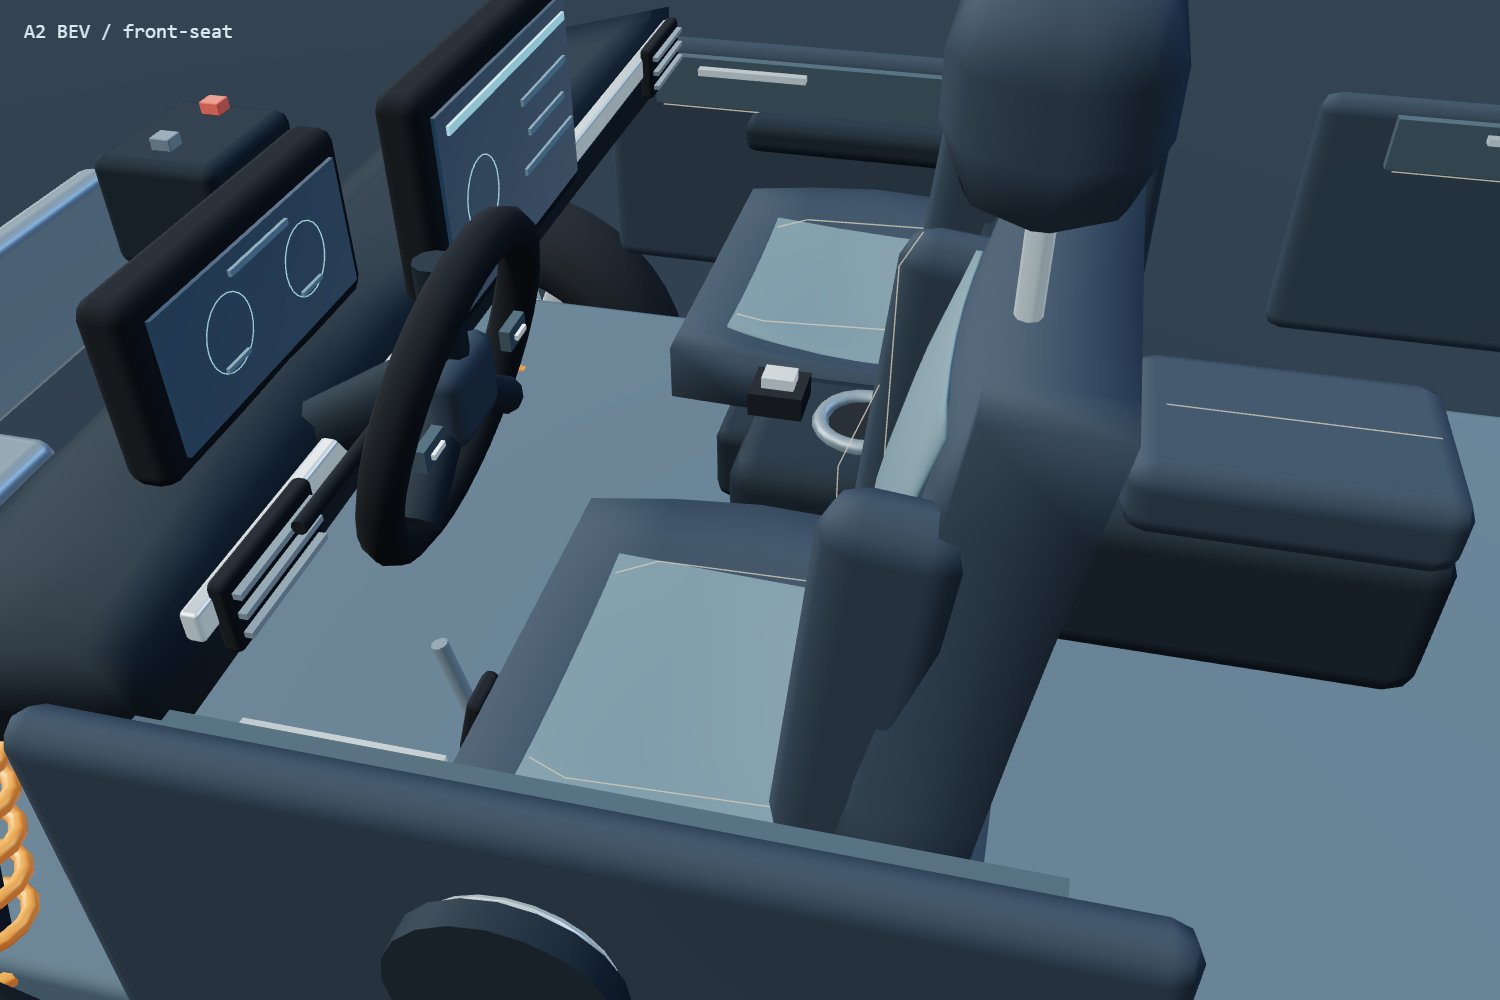
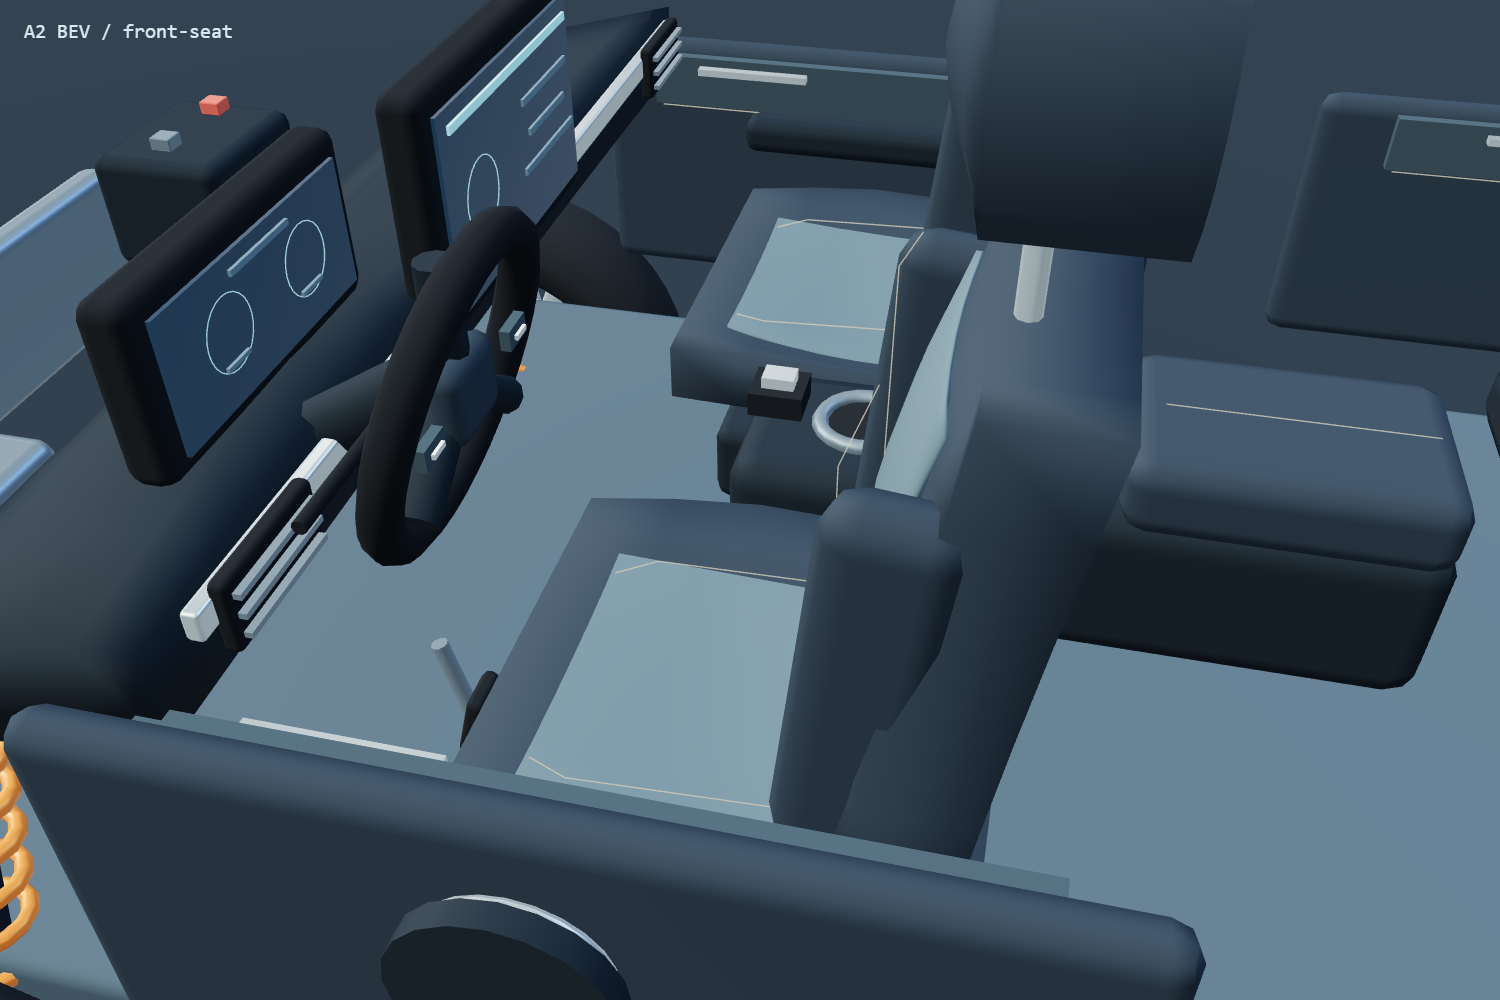
feat(a2): sculpt shared rear bench and headrests

Changed region(s): [[0.644, 0.124, 0.828, 0.279], [0.7667, 0.0, 0.7973, 0.093], [0.9813, 0.403, 1.0, 0.465]]

diff --git a/src/team-a/viewer/vehicle-model.ts b/src/team-a/viewer/vehicle-model.ts
@@ -189,6 +189,17 @@ export function createVehicleModel(kind: VehicleKind): VehicleModel {
     return mesh(parent, skinGeometry(vertices, nx, ny, [0, 0, inlay ? -0.014 : -0.115]), material);
   }
 
+  function headrestSkin(parent: THREE.Object3D, x: number, z: number, width: number) {
+    const vertices: number[] = [], nx = 8, ny = 6;
+    for (let j = 0; j <= ny; j++) for (let i = 0; i <= nx; i++) {
+      const t = j / ny, u = i / nx * 2 - 1;
+      const endTaper = 1 - 0.26 * Math.pow(Math.abs(t * 2 - 1), 2);
+      vertices.push(x + u * width * endTaper / 2, 1.665 + 0.225 * t,
+        z - 0.205 + 0.047 * (1 - u * u) * Math.sin(Math.PI * t));
+    }
+    return mesh(parent, skinGeometry(vertices, nx, ny, [0, 0, -0.155]), fabric);
+  }
+
   function roofPillar(parent: THREE.Object3D, s: number, bottom: V3, top: V3, widthAtBase: number, widthAtTop: number) {
     const vertices: number[] = [], nx = 1, ny = 6;
     for (let j = 0; j <= ny; j++) {
@@ -277,18 +288,22 @@ export function createVehicleModel(kind: VehicleKind): VehicleModel {
     for (const xx of [-0.075, 0, 0.075]) { const g = new THREE.TorusGeometry(0.394 - Math.abs(xx) * 0.2, 0.004, 4, 24); g.rotateY(Math.PI / 2); mesh(wheel, g, dark, [xx, 0, 0]); }
   }
 
+  const rearBench = part('rear-bench-frame', '后排共用坐垫基座', 'cabin', [0, 0.45, 0]);
+  box(rearBench, [1.61, 0.15, 0.53], [0, 0.77, -0.79], dark, 0.055);
   for (const [index, [x, z, width]] of ([[0.48, 0.55, 0.62], [-0.48, 0.55, 0.62], [0.5, -0.79, 0.57], [0, -0.79, 0.42], [-0.5, -0.79, 0.57]] as [number, number, number][]).entries()) {
     const seat = part(`seat-${index + 1}`, `${index < 2 ? '前排' : '后排'}座椅 ${index + 1}（含头枕）`, 'cabin', [0, 0.45, 0]);
-    box(seat, [width - 0.13, 0.14, 0.46], [x, 0.76, z], dark);
+    if (index < 2) box(seat, [width - 0.13, 0.14, 0.46], [x, 0.76, z], dark);
     cushionSkin(seat, x, z, width, 0.57, fabric);
     cushionSkin(seat, x, z, width, 0.57, insert, true);
     backrestSkin(seat, x, z, width, fabric);
     backrestSkin(seat, x, z, width, insert, true);
-    for (const dx of [-width * 0.37, width * 0.37]) {
+    const bolsterOffsets = index < 2 ? [-width * 0.37, width * 0.37] : index === 2 ? [width * 0.37] : index === 4 ? [-width * 0.37] : [];
+    for (const dx of bolsterOffsets) {
       const bolster = box(seat, [0.075, 0.43, 0.13], [x + dx, 1.27, z - 0.155], fabric, 0.037); bolster.rotation.x = -0.1;
     }
     for (const dx of [-0.085, 0.085]) cylinder(seat, 0.012, 0.14, [x + dx, 1.63, z - 0.25], trim, 'y', 8);
-    box(seat, [Math.min(width * 0.64, 0.35), 0.21, 0.17], [x, 1.77, z - 0.25], fabric, 0.078);
+    const headrest = headrestSkin(seat, x, z, Math.min(width * 0.64, 0.35));
+    headrest.name = `headrest-${index + 1}`;
     box(seat, [0.045, 0.1, 0.05], [x + width / 2 - 0.035, 1.01, z - 0.1], red, 0.01);
     for (const direction of [-1, 1]) {
       seam(seat, [[x + direction * width * 0.28, 1.03, z - 0.2], [x + direction * width * 0.29, 1.014, z + 0.16], [x + direction * width * 0.25, 1.006, z + 0.21]]);

diff --git a/docs/evidence/A2/A2-FULL-014/capture-shape.js b/docs/evidence/A2/A2-FULL-014/capture-shape.js
@@ -11,19 +11,21 @@ async page => {
     ['cabin', [3.7, 5, 4.4], [0, 1, 0], 'hidden'],
     ['front-seat', [1.55, 2.15, 0.3], [0.48, 1.28, 0.55], 'hidden'],
     ['rear-seat', [1.3, 2.0, -1.5], [0, 1.25, -0.8], 'hidden'],
+    ['rear-bench', [0, 2.25, 1.4], [0, 1.25, -0.79], 'hidden'],
     ['door-close', [2.3, 1.55, 0.2], [0.9, 1.05, 0.3], 'solid'],
   ];
   const records = [];
   for (const kind of ['ice', 'bev', 'hev', 'erev']) for (const [view, camera, target, body] of views) {
-    if (['front-seat', 'rear-seat', 'door-close'].includes(view) && kind !== 'bev') continue;
+    if (['front-seat', 'rear-seat', 'rear-bench', 'door-close'].includes(view) && kind !== 'bev') continue;
     const state = await page.evaluate(({ kind, view, camera, target, body }) => {
       qa.show(kind, camera, target, view); qa.viewer.setBody(body);
+      if (view === 'rear-bench') for (const id of ['seat-1', 'seat-2']) qa.scene.getObjectByName(id).visible = false;
       qa.controls.target.set(...target); qa.camera.position.set(...camera); qa.controls.update(); qa.draw(); qa.clean();
       const model = qa.scene.getObjectByName(`teaching-suv-${kind}`);
       let triangles = 0, meshes = 0;
       model.traverse(item => { if (item.isMesh) { meshes++; triangles += (item.geometry.index?.count ?? item.geometry.getAttribute('position').count) / 3; } });
       const gl = qa.renderer.getContext(), info = gl.getExtension('WEBGL_debug_renderer_info');
-      return { kind, view, body, camera: qa.camera.position.toArray(), target: qa.controls.target.toArray(), triangles, meshes,
+      return { kind, view, body, frontSeatsHiddenForInspection: view === 'rear-bench', camera: qa.camera.position.toArray(), target: qa.controls.target.toArray(), triangles, meshes,
         gpu: gl.getParameter(info?.UNMASKED_RENDERER_WEBGL ?? gl.RENDERER), contextLost: gl.isContextLost() };
     }, { kind, view, camera, target, body });
     if (state.contextLost) throw Error(`${kind} ${view}: WebGL context lost`);

diff --git a/tests/a2-vehicle-model.test.ts b/tests/a2-vehicle-model.test.ts
@@ -2,7 +2,7 @@ import assert from 'node:assert/strict';
 import test from 'node:test';
 import * as THREE from 'three';
 import { createVehicleModel, type VehicleKind } from '../src/team-a/viewer/vehicle-model';
-import { SPEAKER_POSITIONS } from '../src/shared/lab-contracts';
+import { MIC_POSITIONS, SPEAKER_POSITIONS } from '../src/shared/lab-contracts';
 
 test('four drivetrains preserve their physical differences and five-seat cabin', () => {
   for (const kind of ['ice', 'bev', 'hev', 'erev'] as VehicleKind[]) {
@@ -27,6 +27,14 @@ test('four drivetrains preserve their physical differences and five-seat cabin',
       const speaker = model.group.getObjectByName(`speaker-${corner}`);
       assert.ok(speaker, `${kind} ${corner} speaker exists`);
       assert.deepEqual(speaker.getWorldPosition(new THREE.Vector3()).toArray(), SPEAKER_POSITIONS[index]);
+    });
+    [1, 2, 3, 5].forEach((seatIndex, index) => {
+      const headrest = model.group.getObjectByName(`headrest-${seatIndex}`);
+      assert.ok(headrest, `${kind} seat ${seatIndex} has a headrest`);
+      assert.equal(headrest.parent?.name, `seat-${seatIndex}`);
+      const mic = new THREE.Vector3(...MIC_POSITIONS[index]), bounds = new THREE.Box3().setFromObject(headrest);
+      assert.ok(mic.distanceTo(bounds.clampPoint(mic, new THREE.Vector3())) < 0.1,
+        `${kind} MIC ${index + 1} remains at its designated headrest`);
     });
     for (const p of model.parts) {
       assert.equal(p.object.parent, model.group, 'exploded parts do not inherit another part offset');

diff --git a/docs/evidence/A2/A2-FULL-014/README.md b/docs/evidence/A2/A2-FULL-014/README.md
@@ -1,18 +1,18 @@
 # A2-FULL-014 四车型共用车侧、车顶与座椅形态
 
-状态：A2 局部实现及本机验证完成，待 PR 审查；A2-F2 最终视觉质量与 A 组最终交付仍未通过。基线是 A2-FULL-013 已提交 `5ab99a0`；本批经验证运行源码为 `8710954fa4295af3c4989c94fd29c24c150c6f11`。此后文档固定提交不改变运行源码，不用未来 PR HEAD 代替本批版本。
+状态：A2 局部实现及本机验证完成，待 PR 审查；A2-F2 最终视觉质量与 A 组最终交付仍未通过。基线是 A2-FULL-013 已提交 `5ab99a0`。第一批经验证运行源码为 `8710954fa4295af3c4989c94fd29c24c150c6f11`；座椅正面补强后的最终经验证源码 SHA 待本次提交后固定，不用未来 PR HEAD 代替本批版本。
 
 ## 变化与肉眼核对
 
 - 将车顶两侧悬空的圆管替换为贴合车顶与侧窗上沿的闭合肩部，车顶轮廓在四车侧面与斜顶视角中连贯。门外板增加上部肩线与下部收分，轮拱后方增加闭合深色内衬，门槛条减薄。模型仍为原创教学 SUV，不声明量产车型比例或零件精度。
-- 五个座椅保持前 2 后 3 与原部件 ID、安装位置；坐垫前缘/边缘收分，靠背及头枕形态稍圆润，嵌片色差收敛。未移动四 MIC、四门扬声器、四轮或参考安装点。
-- 轮胎装饰槽环分段从 40 减至 24，留出车壳几何预算。四车三角数由 ICE 46,460、BEV 46,448、HEV 48,704、EREV 49,376 变为 ICE 45,364、BEV 45,352、HEV 47,608、EREV 48,280；数字仅作资源预算，不作视觉达标证明。
-- 固定机位肉眼检查：侧面车顶不再有明显脱开的长条，轮拱内部颜色更收敛，座椅嵌片不再过亮；车侧仍较平，立柱、轮拱、后部和座椅仍偏教学简化。游戏参照精细度明确未通过。
+- 五个座椅保持前 2 后 3 与原部件 ID、安装位置；坐垫前缘/边缘收分，靠背和头枕改为闭合曲面，嵌片色差收敛。后排三座共用坐垫基座，移除相邻座位间重复的高侧翼，近景可直接辨认连续后排。未移动四 MIC、四门扬声器、四轮或参考安装点；新增模型检查四个 MIC 均在指定头枕 0.1 m 内。
+- 轮胎装饰槽环分段从 40 减至 24，留出车壳几何预算。四车三角数由 ICE 46,460、BEV 46,448、HEV 48,704、EREV 49,376 变为最终 ICE 45,416、BEV 45,404、HEV 47,660、EREV 48,332；数字仅作资源预算，不作视觉达标证明。
+- 固定机位肉眼检查：侧面车顶不再有明显脱开的长条，轮拱内部颜色更收敛，后排由独立方块底座改为共用基座；车侧仍较平，立柱、轮拱、后部和座椅仍偏教学简化。游戏参照精细度明确未通过。
 
 ## 复现与结果
 
-- `capture-shape.js` 在固定机位拍摄四车侧面、车顶、隐藏车壳座舱，另拍 BEV 前后排座椅和车门近景；共 15 对 `before-*` / `after-*` 原图。基线图来自修改前同一 Vite 运行页，后图来自修改后同一页。`after.json` 记录四车视角、三角数、GPU 和 WebGL 上下文；全部 `contextLost=false`。本机显卡为 NVIDIA RTX 4070 Laptop GPU，并非目标核显。
-- `check-full-app.js` 在真实 `pnpm dev` 页面记录同一实验 `82ca91cc` 的实体、透明、隐藏、展开及 X 剖面五模式。`full-app.json` 中每一模式硬件标记 16 个、实验身份不变、无页面错误和 WebGL 上下文丢失。完整页截图为 `full-app-*.png`。
+- `capture-shape.js` 在固定机位拍摄四车侧面、车顶、隐藏车壳座舱，另拍 BEV 前后排座椅和车门近景；共 15 对原始 `before-*` / 最终 `after-*` 原图。新增第 16 张 `after-bev-rear-bench.png` 从座舱前方正视后排，临时隐藏前两张座椅以免遮挡，`mid-bev-rear-bench.png` 为第一批源码 `26d0478` 同机位基线；这两张不代表完整页面默认可见状态。`after.json` 记录四车视角、三角数、GPU 和 WebGL 上下文；全部 `contextLost=false`。本机显卡为 NVIDIA RTX 4070 Laptop GPU，并非目标核显。
+- `check-full-app.js` 在真实 `pnpm dev` 页面记录同一实验 `63859207` 的实体、透明、隐藏、展开及 X 剖面五模式。`full-app.json` 中每一模式硬件标记 16 个、实验身份不变、无页面错误和 WebGL 上下文丢失。完整页截图为 `full-app-*.png`。
 - 执行 `pnpm exec tsx --test tests/a2-vehicle-model.test.ts`：3/3；`pnpm check`：类型、边界、66/66 自动测试及生产构建通过。构建保留超过 500 kB 的非阻断提示。
 
 ## 仍需完成

diff --git a/开发记录.md b/开发记录.md
@@ -11,7 +11,7 @@
 | 责任 | 本轮已有实现 | 实际验证 | 下一步 |
 | --- | --- | --- | --- |
 | A1 | 保留原实验界面与16秒回放；新增持续仿真/试听、背压、有界历史、暂停恢复/后台/销毁闭环 | 生产版实时20项、Web Audio11项、生命周期31+4项；新增播放器8项与Worker管理3项自动测试 | 长稳结果审计、重负载补缓冲质量、全流程与新版交付 |
-| A2 | #7四类结构/真实截面；#8–#10视觉/结构检视；#11结构讲解；#12真实采样色片；#13近景细节；#14路径聚焦；#15动态剖面录像；#16移动平面采样；#17座舱近景；#18前后车身曲面；#19车侧/车顶/座椅局部形态 | #19四车15对固定机位、BEV整页五模式、`pnpm check` 66/66；暂停态自动重查/跨端联调及最终视觉未通过 | A1暂停态重查与B负载核对、参照精细度、目标核显和全应用讲解 |
+| A2 | #7四类结构/真实截面；#8–#10视觉/结构检视；#11结构讲解；#12真实采样色片；#13近景细节；#14路径聚焦；#15动态剖面录像；#16移动平面采样；#17座舱近景；#18前后车身曲面；#19车侧/车顶/座椅局部形态 | #19四车15对固定机位与后排正面增量对照、BEV整页五模式、`pnpm check` 66/66；暂停态自动重查/跨端联调及最终视觉未通过 | A1暂停态重查与B负载核对、参照精细度、目标核显和全应用讲解 |
 | B | 新持续处理器保留源、路径、FxLMS状态；固定内存历史；原批量与任意点场保留 | B组23项含6项流式数值；首16秒逐样本等同批量，跨块/越环/场前史及失败状态通过 | 更多工况与目标设备验证，配合持续运行质量 |
 | 集成 | Worker持续协议、真实场绝对时间、取消/错误隔离；目录边界保持 | pnpm check：59/59、类型/边界/生产构建通过 | 冻结后新版长稳、核显、实物音画、第二机离线、包/录像 |
 
@@ -38,6 +38,7 @@
 
 - 本端从 A2-FULL-013 已提交 `5ab99a0` 建立 `a/a2-full-014-side-cabin-shape`，只写 viewer、A2 测试/证据、A2 交接和本日志。本批针对四车共用的车侧/车顶连贯性与五座方块感，先留同机位基线再修改并完整页回归。保留四轮、五座、MIC/扬声器及参考的物理点位、稳定部件 ID、viewer API、爆炸和剖面归属；当前仅认领，尚无运行源码或通过结论。A2-F2 视觉参照质量和目标核显仍未完成。
 - [草稿 PR #19](https://github.com/KnowCooker/RNC_3D_SIMULATION/pull/19) 本批已局部实现并在本机验证：闭合车顶肩部、门板上肩线/下收分、闭合轮拱内衬、减薄门槛和五座材质/边缘收分；以轮胎槽环降分段控制四车三角数 45,364～48,280。四车15对固定视角、BEV真实完整页五模式、脚本及原始结果见[本批报告](docs/evidence/A2/A2-FULL-014/README.md)；`pnpm check` 类型/边界/66测试/生产构建通过，既有物理锚点与资源释放测试通过。经验证运行源码 `8710954fa4295af3c4989c94fd29c24c150c6f11`；本次仅文档固定提交。RTX4070非目标核显，整车参照质量仍未达到，A1暂停态移动场、正式包/设备验收仍待完成。本批不改A1/B/shared/integration，下一步继续视觉差距与跨端联调。
+- 本端沿用 #19 对后排近景作增量复核：三座共用坐垫基座、闭合曲面头枕和更少的重复内侧高翼；新增四 MIC 与指定头枕 <0.1 m 的几何关系断言。`mid-bev-rear-bench.png` 为第一批同机位基线，最终后排正面图与四车15对外观/座舱图、真实整页五模式及原始 JSON 见上述报告。最终四车三角数 45,416～48,332，`pnpm check` 类型/边界/66测试/构建通过；经验证源码 SHA 待提交后固定。只改 viewer/A2测试/证据/交接，参照视觉、核显和整组交付仍未通过。
 
 ### 2026-09-24 / A2-FULL-013 / 共用车身前后曲面认领
 

diff --git a/docs/coordination/A2.md b/docs/coordination/A2.md
@@ -10,6 +10,7 @@
 - 目标：处理四车型共同侧视中悬空的车顶边、薄立柱、平板车门和暴露轮拱，以及五座座椅的方块形态。车顶/立柱/侧板/座椅需在常用窗口更连贯、可辨；保留四轮中心/半径、前2后3及四个头枕 MIC、四门扬声器、部件 ID、安装坐标、viewer API 与爆炸/剖面归属。车型外形仍为原创教学设计。
 - 验收：四车侧面及座舱固定视角基线/新版原图、BEV 外观近景与座椅近景、真实完整页透明/隐藏/爆炸/剖面组合；物理锚点、内外侧可见性、闭合截面、GPU 资源释放和几何预算检查，执行 `pnpm check`。游戏参照视觉与目标核显仍须独立验收。
 - 实际结果：车顶边缘改为闭合肩部、门外板增加上肩线与下收分、轮拱增加深色闭合内衬、门槛减薄；五座形态与材质收敛，轮胎装饰槽降分段以控制预算。四车 15 对固定视角前后图、BEV 真实完整页五模式、脚本与原始结果见[本批报告](../evidence/A2/A2-FULL-014/README.md)。四车三角数为 45,364～48,280，`pnpm check` 类型/边界/66 测试/构建通过；MIC/门扬声器/轮心和部件归属既有测试通过。经验证运行源码 `8710954fa4295af3c4989c94fd29c24c150c6f11`；本次仅文档固定提交。RTX4070 非目标核显；整车游戏参照精细度和正式交付仍未通过。
+- 后排正面复核显示三张独立方块底座仍过于明显，本端继续同一 PR：改为三座共用基座和闭合曲面头枕，移除后排内侧重复高翼；补同机位前后正面图。最终四车三角数 45,416～48,332；新增四 MIC 距指定头枕 <0.1 m 的模型断言，`pnpm check` 类型/边界/66 测试/构建、BEV 完整页五模式均通过。最终经验证源码 SHA 待提交后固定；旧 `8710954` 仅固定第一批，不代表最终座椅图。参照精细度、目标核显和同版正式包仍未通过。
 - 精确下一步：审查 #19 及依赖 PR，继续差距表中的侧面/立柱/轮拱与座舱视觉质量；A1/integration/B 补暂停态移动声场重查与负载，A 组完成核显、第二机离线、实物音画及同版包/录像。viewer API 与声学物理坐标未改。
 
 ### A2-FULL-013 共用车身前后曲面与接缝
